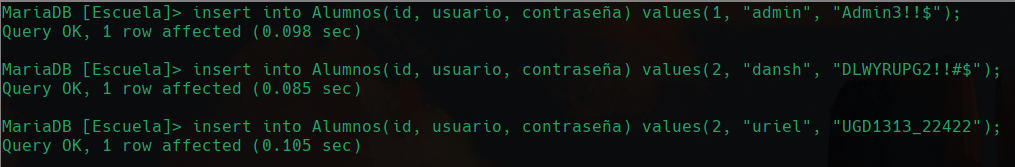
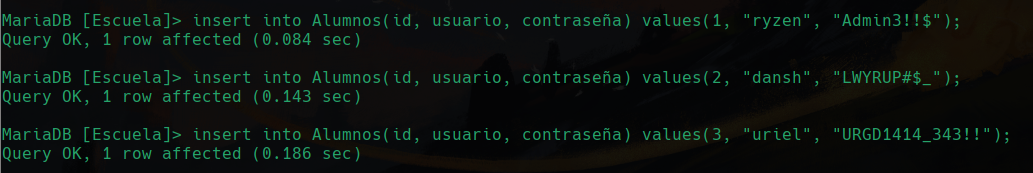
Version 1.9

Changed region(s): [[0.0, 0.0, 1.0, 0.2695], [0.0, 0.3593, 0.9773, 0.5988], [0.0, 0.7186, 1.0, 0.9281]]

diff --git a/_posts/2022-08-03-SQL-Inyection-SQLi.md b/_posts/2022-08-03-SQL-Inyection-SQLi.md
@@ -143,7 +143,7 @@ Y esto nos va a mostrar la información de esta tabla más detallada:
 
 Ahora para agregar datos a esta tabla lo que hacemos es usar el **insert**:
 
-`MariaDB [Escuela]> insert into Alumnos(id, usuario, contraseña) values(1, "admin", "Admin3!!$");`
+`MariaDB [Escuela]> insert into Alumnos(id, usuario, contraseña) values(1, "ryzen", "Admin3!!$");`
 
 Esta línea lo que hizo fue agregar datos a esta tabla, obviamente debemos pasar los datos correspondientes a sus columnas, primero se usa el **insert** para insertar datos y después el **into** para decirle donde insertara esos datos, después le decimos que los insertara en la tabla **Alumnos**, y posteriormente pasamos los nombres que pusimos a las columnas seguido de los valores con **value** y lo hacemos respetando su orden y tipo de dato.
 
